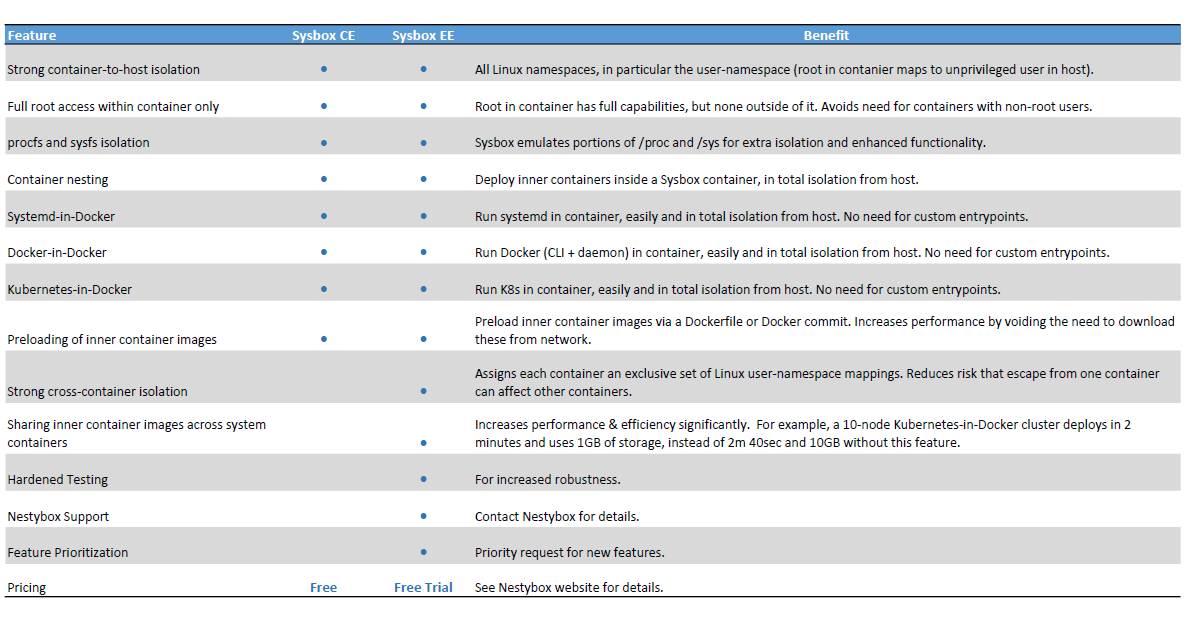
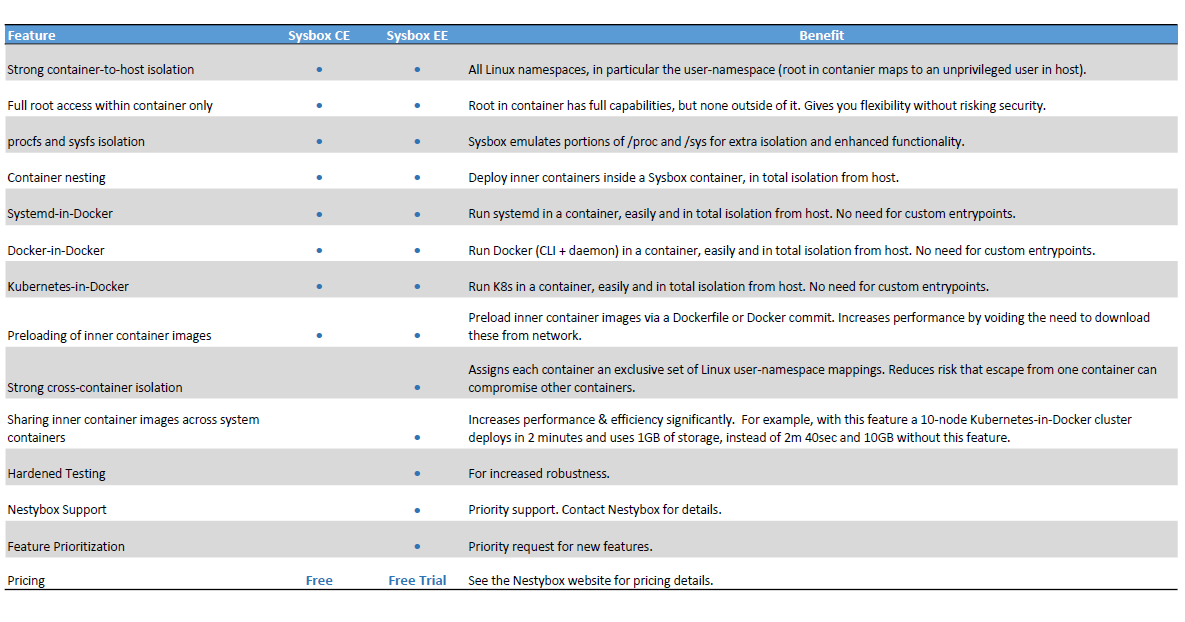
Fixed a couple of typos in README file and feature table.

diff --git a/README.md b/README.md
@@ -89,7 +89,7 @@ and contributions are welcomed.
 
 The Sysbox project is **not** meant for people looking for a commercially
 supported solution. For such a solution, use the **Sysbox Enterprise Edition
-(sysbox-EE)**.
+(Sysbox-EE)**.
 
 Sysbox-EE uses Sysbox at its core, but complements it with enterprise-level
 features for improved security and efficiency as well as Nestybox support
